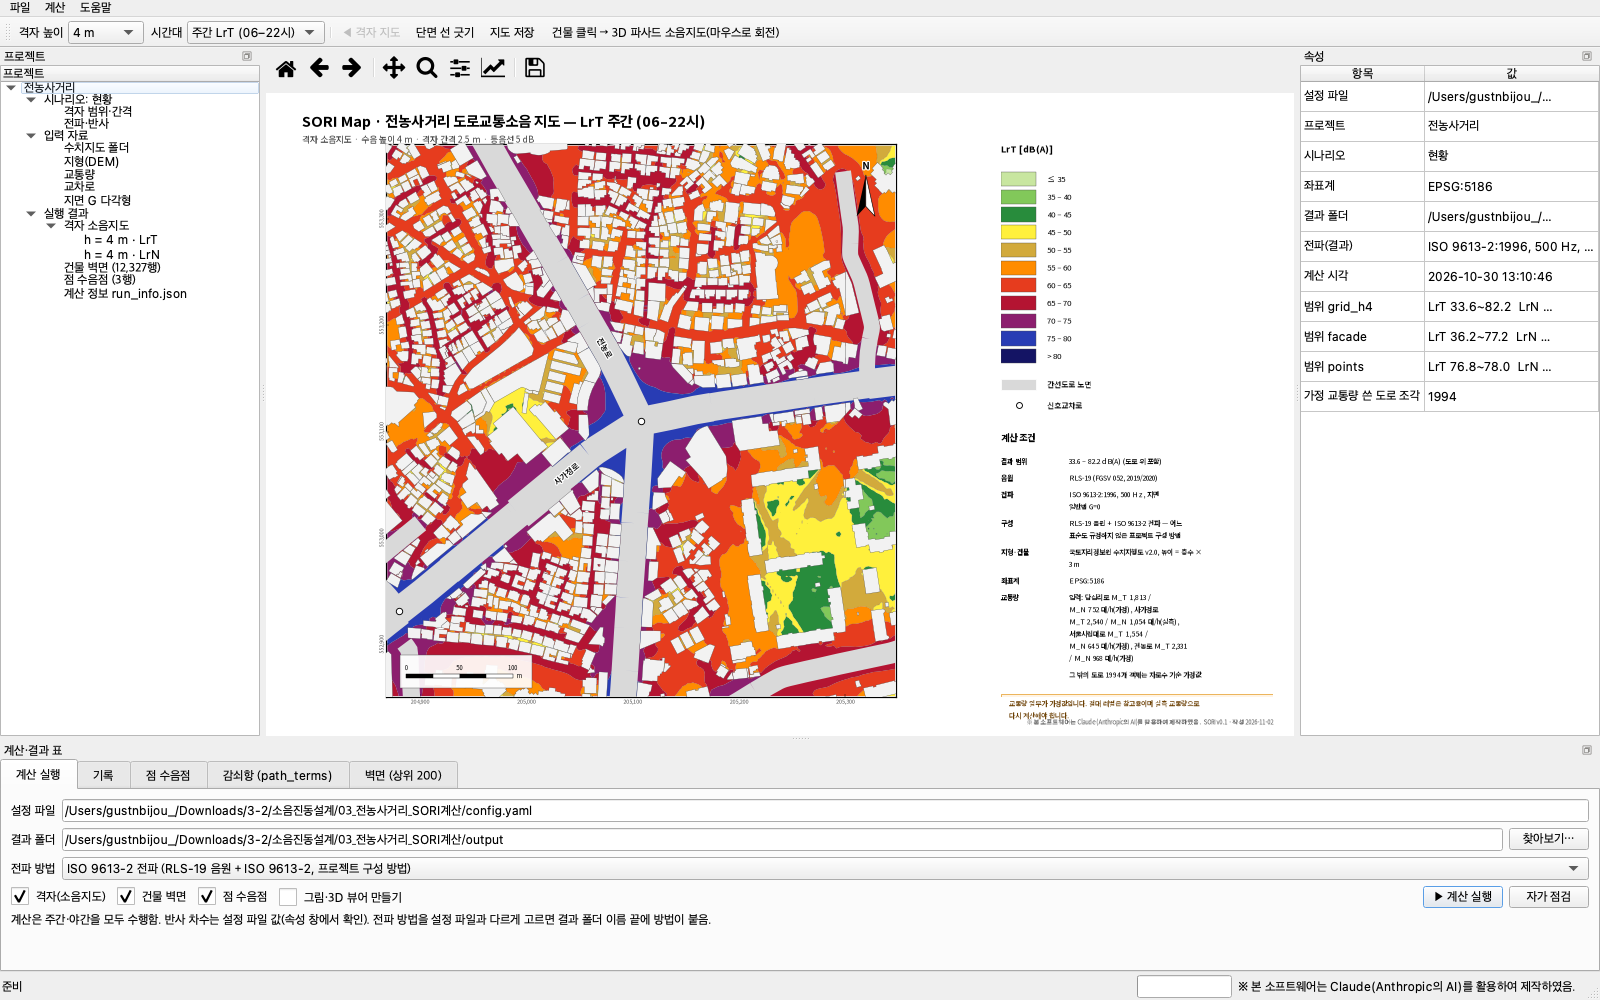
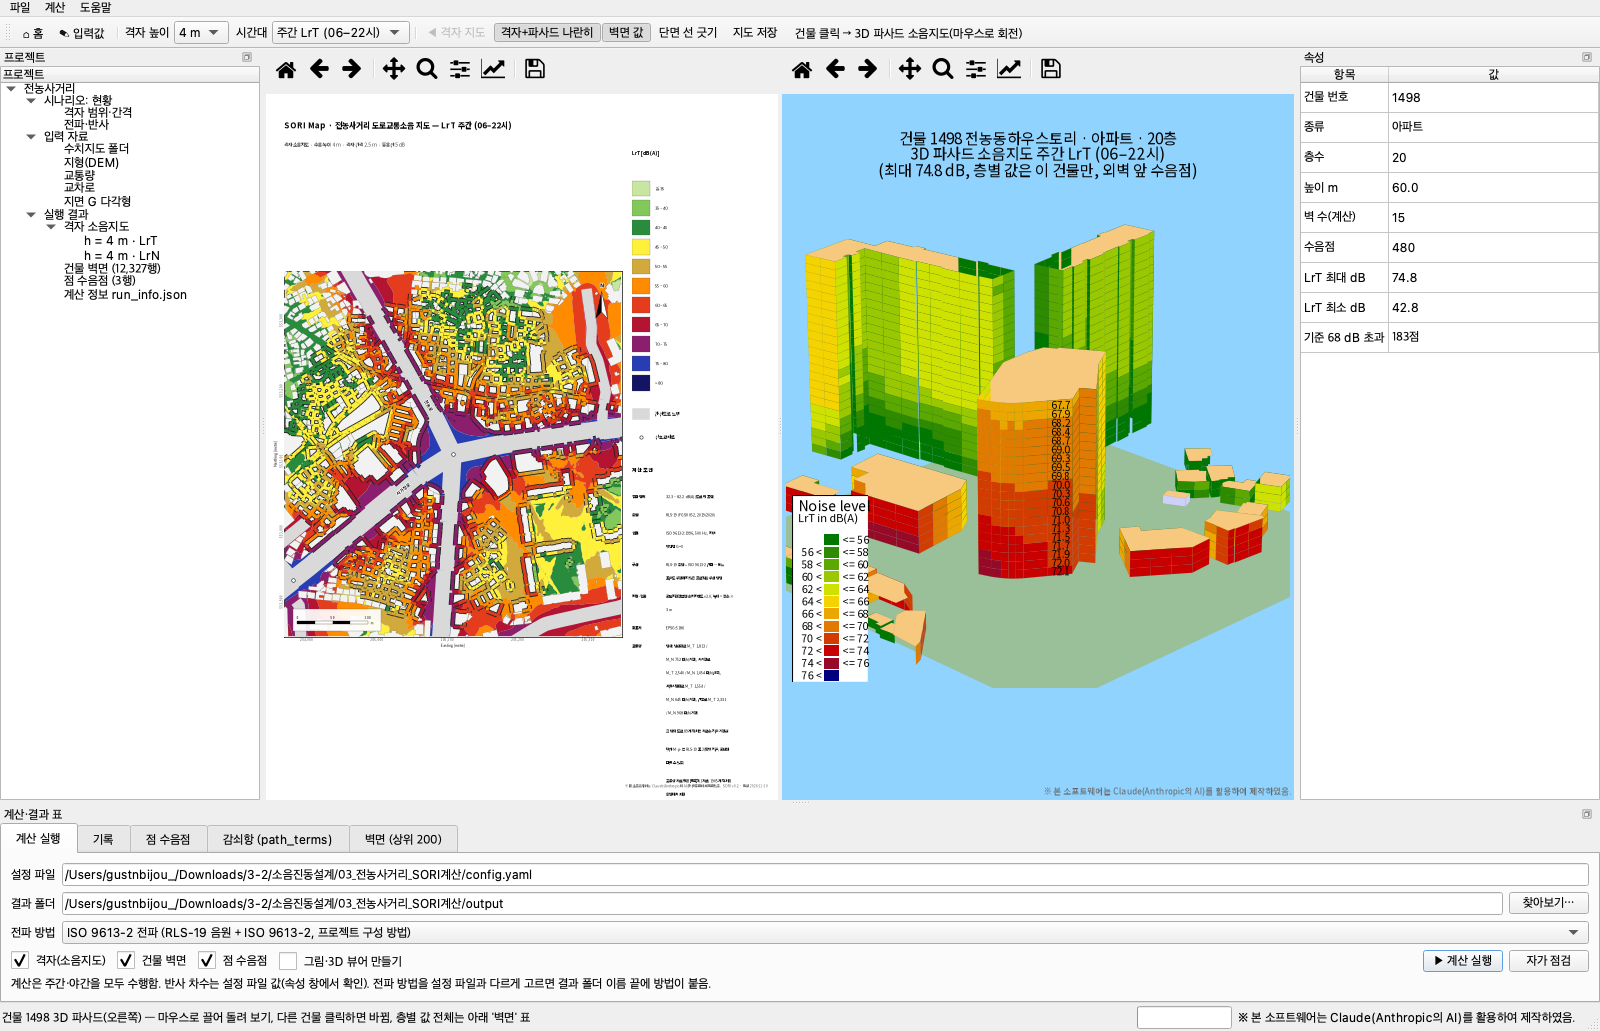
판 v0.2: 버전 올림, 매뉴얼 판을 프로그램 판과 자동 연동, 두 매뉴얼에 11-05~11-10 변경 반영
- sori.__version__ 0.1 → 0.2 (v0.1 이후 결과가 바뀌는 변경: 차도 면 flatten, 교통량 빈칸 표준표, 골목길 제외, RLS-90 추가)
- docs/manual/build.sh 가 __version__ 으로 version.tex(\soriversion) 생성, 두 매뉴얼 표지·머리글이 사용
- 시험 test_version_sync(판 일치·매크로 사용·docs/release/v<판>.md 존재), 변경 기록 docs/release/v0.2.md
- README 9절 판 번호 규칙(결과 바뀜·기능 추가 = 둘째 자리, 결과 불변 수정 = 셋째 자리)
- User's Manual: 홈·입력값 화면, RLS-90, 나란히 보기, 격자 위 벽면 값, 설정 표, 절대값 신뢰도 주의, 판 번호 장, 화면 그림 4장 v0.2 로
- Technical Manual: RLS-90 절, 차도 면 보정, 골목길 제외, v0.2 화면 구조, 시험 316 통과, SoundPLAN 비교 준비, 변경 이력·식 대응표
- 매뉴얼 개발노트 ⑬

diff --git a/tests/test_version_sync.py b/tests/test_version_sync.py
@@ -1,0 +1,29 @@
+# -*- coding: utf-8 -*-
+"""매뉴얼 판 번호 = 프로그램 판 번호(sori.__version__) 확인. docs/manual/build.sh 가 version.tex 를 다시 만들므로
+이 시험이 실패하면 build.sh 를 돌리고 version.tex 를 함께 커밋한다.
+※ Claude(Anthropic의 AI)를 활용하여 제작하였음."""
+import re
+from pathlib import Path
+
+import sori
+
+ROOT = Path(__file__).resolve().parents[1]
+MAN = ROOT / "docs" / "manual"
+
+
+def test_manual_version_matches_program():
+    m = re.search(r"\\def\\soriversion\{([^}]*)\}", (MAN / "version.tex").read_text(encoding="utf-8"))
+    assert m and m.group(1) == sori.__version__
+
+
+def test_manuals_use_version_macro():
+    """표지·머리글에 판 번호를 손으로 쓰지 않고 \\soriversion 을 씀"""
+    for name in ("SORI_User_Manual.tex", "SORI_Technical_Manual.tex"):
+        t = (MAN / name).read_text(encoding="utf-8")
+        assert "\\input{version}" in t
+        assert re.search(r"\\def\\docheader\{SORI v\\soriversion", t)
+        assert "{\\sffamily\\Huge\\bfseries\\color{navy} SORI v\\soriversion" in t
+
+
+def test_release_note_exists_for_version():
+    assert (ROOT / "docs" / "release" / f"v{sori.__version__}.md").exists()

diff --git a/docs/manual/version.tex b/docs/manual/version.tex
@@ -1,0 +1,2 @@
+%% 자동 생성(build.sh) — sori/__init__.py 의 __version__. 손으로 고치지 말 것
+\def\soriversion{0.2}

diff --git a/docs/매뉴얼_개발노트.md b/docs/매뉴얼_개발노트.md
@@ -1,4 +1,4 @@
-# 매뉴얼 개발노트 — SORI v0.1 User's Manual · Technical Manual
+# 매뉴얼 개발노트 — SORI User's Manual · Technical Manual (판 = 프로그램 판, 현재 v0.2)
 
 > ※ 본 문서는 Claude(Anthropic의 AI)를 활용하여 작성하였음.
 
@@ -15,8 +15,9 @@
 | Technical Manual | 정식본 v0.1 작성(2026-11-02) = `docs/manual/SORI_Technical_Manual.tex`(커밋 `e31dd81`), PDF 14쪽 → `06_개발기록/Technical manual/`. 초안 `TECHNICAL_NOTES.md` 는 그대로 둠 |
 | SORI 앱 개발노트 | 작성(2026-11-02) = `docs/manual/SORI_앱개발노트.tex`(커밋 `06f96e9`), PDF 9쪽 → `06_개발기록/개발노트/` |
 | 상용SW 서류 대응표 | 작성(2026-11-04) = `docs/상용SW_서류_대응표.md`. AEDT·SoundPLAN 서류 체계와 SORI 결과물 대응, 빈 곳(검증 보고서·제품 소개서) |
-| RLS-90 방법 | 초안에만 반영(2026-11-05) = `TECHNICAL_NOTES.md` 4d절, `README.md` 설정 표(`propagation_method: rls90`, `reflection.D_E`). 정식본 PDF 미반영 |
+| RLS-90 방법 | 초안(2026-11-05) = `TECHNICAL_NOTES.md` 4d절, `README.md` 설정 표. 정식본 반영(2026-11-10, v0.2) = Technical 5.6절·식 대응표, User's 적용 기준·전파 방법·설정 표 |
 | 교통량 빈칸 표준값 | 반영(2026-11-06) = 초안(`README.md` 4.1절 ※, `TECHNICAL_NOTES.md` 5a-15)·정식본(User's 교통량 표·※, Technical 표 2 항목·가정·대응표). RLS-19 표 2 / RLS-90 표 3, 독일 기준·국내 차이 명시 |
+| 판 번호 연동 | 2026-11-10: 프로그램 v0.2 로 올리고 매뉴얼 판을 `sori/__init__.py` 의 `__version__` 에서 자동으로(`build.sh` → `version.tex` → `\soriversion`). 시험 `tests/test_version_sync.py`. 정식본 v0.2 PDF = User's 20쪽, Technical 18쪽 → `06_개발기록/` |
 | 정식본 형식 | LaTeX(xelatex) → PDF, 기존 개발노트(10.26)와 같은 양식(`docs/manual/preamble.tex`). 원본은 저장소(`docs/manual/`), PDF 는 저장소에 넣지 않고 06_개발기록에 복사(사용자 결정 2026-11-02). 빌드 `sh docs/manual/build.sh` |
 
 ---
@@ -235,3 +236,13 @@
 - **결정**: 골목길 정의를 "차로수 < `main_min_lanes`(수치지도 1차로)"로 적고, 교통량을 넣은 골목길은 계산한다는 예외와 도로선은 교차로 판정·차도 면 보정에 남는다는 점을 함께 적음. 고시의 대상 도로 범위와의 관계는 근거 미확인으로 표시.
 - **남은 일**: 재계산 결과(측정점·지도 변화)를 Technical Manual 변경 이력에 넣을지 결정.
 
+### 2026-11-10 ⑬ 정식본 v0.2 — 판 번호 연동, 11-05~11-10 변경 반영
+
+- **목적**: 사용자 지시 "두 매뉴얼이 현재 SORI 에 맞는지 확인, SORI 는 업데이트 때마다 버전을 새로 하는지 — 매뉴얼도 같은 버전으로". 확인 결과 프로그램은 v0.1 태그(11-04) 이후 결과가 바뀌는 변경(차도 면 flatten, 교통량 빈칸 표준표, 골목길 제외)과 RLS-90 추가가 있었는데 `__version__` 은 0.1 그대로였고, 정식본은 RLS-90·차도 면·홈/입력값 화면·나란히 보기·벽면 값·SoundPLAN 도구가 빠져 있었음(표지 기준 커밋 2376a59, 화면 그림 11-02).
+- **수행**:
+  - 판 번호: `sori/__init__.py` `__version__ = "0.2"`. `docs/manual/build.sh` 가 `__version__` 을 읽어 `version.tex`(`\soriversion`)를 만들고 두 정식본 표지·머리글·본문이 그 값을 씀. `tests/test_version_sync.py`(판 일치, 표지·머리글 매크로 사용, `docs/release/v<판>.md` 존재). `docs/release/v0.2.md`(변경 기록, 태그 전), README 9절(판 번호 규칙·표).
+  - User's Manual: 적용 기준(RLS-90), 사용상 주의(차도 면 보정 한계, **절대값 신뢰도** — 현장 측정보다 5.6~8.5 dB 높음), 받는 파일(배포 파일은 v0.1 이라는 안내), 3장 화면 구성(홈 화면 그림·작업 단추 표, 작업 화면 그림 교체, 도구 줄·Cmd/Ctrl+S), 4.2절 입력값 설정(설정값·교통량·차로 수, 그림 새로), 전파 방법 RLS-90, 격자 위 벽면 값 띠, 3D 파사드 나란히 보기, 설정 표(`road_surface`·`minor_roads`·`D_E`), 11장 판 번호와 변경 이력, 명령어 요약(SoundPLAN 도구). 절 번호 직접 표기 3곳을 `\ref` 로.
+  - Technical Manual: 참조 표준·모듈 표(RLS-90), 계산 흐름(flatten·골목길·RLS-90), 앱 층(v0.2 화면 구조, `facade_segments`), 3장 차도 면 지형, 4.3 골목길 제외, 5.6절 RLS-90(구현 표·규정 밖 설정), 9.1 pytest(316 통과·1 xfail, 파일별 개수 갱신·새 시험 5개), 9.6 SoundPLAN 비교 준비, 미해결 검증(현장 측정 차이), 가정·한계(flatten·RLS-90 근사), 변경 이력(판 번호 규칙, 11-05~11-10 행, v0.1/v0.2 구분), 식 대응표(RLS-90·flatten).
+  - 화면 그림: `figures/gui_home.png`·`gui_input.png`(새), `gui_grid.png`·`gui_facade3d.png`(v0.2 화면, 전농사거리 기본 계산 `output` = flatten·골목길 제외로 11-08 재계산한 결과, 건물 1498) — 화면 없이(offscreen) 1600×1000 으로 그림. `gui_section.png` 는 11-02 그대로(단면 기능 불변).
+- **결정**: 판 번호 규칙 = 같은 설정으로 결과가 바뀌는 변경·기능 추가는 둘째 자리, 결과 불변 수정은 셋째 자리. 매뉴얼 판은 프로그램 판과 항상 같게(따로 매기지 않음). 매뉴얼 글꼴에 ⌂·✎ 글리프가 없어 단추 이름은 글자로만 적음.
+- **남은 일**: v0.2 태그·앱 빌드·Release 초안(사용자 결정), SoundPLAN 결과를 받으면 Technical 9.6절에 숫자 비교 결과, 단면 그림을 v0.2 화면으로 바꿀지.

diff --git a/README.md b/README.md
@@ -1,6 +1,6 @@
 # SORI — RLS-19 + ISO 9613-2 도로교통소음 3D 소음지도(SORI Map)
 
-**SORI** (Simulation of Outdoor Road-noise Impact) v0.1 — 도로교통소음 예측 소프트웨어. 소음지도 기능·결과물은 **SORI Map** 이라 부른다. Python 패키지·명령은 `sori` (`python -m sori …`).
+**SORI** (Simulation of Outdoor Road-noise Impact) v0.2 — 도로교통소음 예측 소프트웨어(판 번호 규칙·변경은 9절). 소음지도 기능·결과물은 **SORI Map** 이라 부른다. Python 패키지·명령은 `sori` (`python -m sori …`).
 
 > ※ 본 소프트웨어와 문서는 Claude(Anthropic의 AI)를 활용하여 제작하였음. 계산 결과의 검토·검증 책임은 사용자에게 있음.
 
@@ -204,10 +204,21 @@ python -m sori all -c config.yaml                            # 모델 구축 →
 
 ## 8. 검증
 ```bash
-python -m pytest -q tests        # 230개 시험(RLS-19 공식 시험과제 TEST-20 포함, 1개는 Krad 미지원 xfail): 원문 식 재계산, 해석해(직선 음원), 차폐·1·2차 반사 수계산 비교(ISO·RLS-19 전파), 입력·음원 배치 회귀시험, 기준 사례·좌표 변환
+python -m pytest -q tests        # 317개 시험(2026-11-10 v0.2: 316 통과, RLS-19 공식 시험과제 TEST-20 포함, 1개는 Krad 미지원 xfail): 원문 식 재계산, 해석해(직선 음원), 차폐·1·2차 반사 수계산 비교(ISO·RLS-19 전파), 입력·음원 배치 회귀시험, 기준 사례·좌표 변환
 ```
 기본값에서 결과가 바뀌지 않았는지는 `python tools/check_baseline.py`(전농사거리 기준선 `baseline/` 과 SHA-256 비교, 약 1분)로 확인합니다.
 `tests/test_reference.py` 는 저장소에 들어 있는 기준 사례(가상 교차로, `tests/reference/synthetic/`)를 계산해 기준값과 허용 오차(기본 0.01 dB, 프로젝트 임의 설정, `--sori-tol` 로 변경)로 비교하고, `tests/test_crs.py` 는 좌표 변환(EPSG) 결과를 확인합니다. 기준값을 만든 커밋·환경은 `tests/reference/synthetic/expected/meta.json`, 다시 만들기·결과 폴더 비교는 `python tools/reference.py make|compare`.
 
 그 밖의 도구: `tools/make_review_lists.py`(지도 확인 목록 → `docs/review/`), `tools/diagnostics.py`(구간 분할·횡단경사 진단 재현). 교통량 비교 시나리오는 `scenarios/`.
 자세한 내용은 `TECHNICAL_NOTES.md`, 작업 경과와 남은 일은 `docs/작업기록_2026-10-15_17.md`.
+
+## 9. 판 번호(버전)
+
+- 판은 `sori/__init__.py` 의 `__version__` 하나로 정한다. 앱 제목·SORI 정보·결과 `run_info.json` 의 `software`·보고서 지도 아래 글이 이 값을 쓰고, User's·Technical Manual 표지·머리글은 `docs/manual/build.sh` 가 만드는 `docs/manual/version.tex`(`\soriversion`)로 같은 값을 쓴다. 어긋나면 `tests/test_version_sync.py` 가 실패한다(→ `sh docs/manual/build.sh` 후 `version.tex` 커밋).
+- **둘째 자리**(0.1 → 0.2): 같은 설정으로 계산 결과가 바뀌는 변경(식·기본값), 계산 방법이나 화면 기능 추가. **셋째 자리**(0.2 → 0.2.1): 결과가 바뀌지 않는 오류 수정·문서·화면 다듬기.
+- 판을 올릴 때: `__version__` → `docs/release/v<판>.md` → 두 매뉴얼의 판별 변경 표 → `sh docs/manual/build.sh` → 배포는 `v<판>` 태그.
+
+| 판 | 날짜 | 요약 |
+|---|---|---|
+| v0.1 | 2026-11-04 | 첫 배포(태그 `v0.1`, 공개 안 함) — `docs/release/v0.1.md` |
+| v0.2 | 2026-11-10 | RLS-90 추가, 차도 면 보정 기본 flatten, 교통량 빈칸 독일 기준표, 골목길 제외 기본(**결과 바뀜**), 홈·입력값 화면, 나란히 보기, 격자 위 벽면 값 — `docs/release/v0.2.md`. 태그 전 |

diff --git a/docs/release/v0.2.md b/docs/release/v0.2.md
@@ -1,0 +1,41 @@
+# SORI v0.2 — 도로교통소음 예측·소음지도
+
+작성: 서울시립대학교 환경공학부 전현수(2022890065)
+
+> ※ 본 소프트웨어와 문서는 Claude(Anthropic의 AI)를 활용하여 제작하였음. 계산 결과의 검토·검증 책임은 사용자에게 있음.
+
+v0.1(2026-11-04) 이후 **계산 결과가 바뀌는 기본값 변경**과 계산 방법 추가가 있어 판을 올렸다(2026-11-10). v0.1 로 계산한 결과와 v0.2 결과는 같은 설정으로도 다를 수 있다. 결과 폴더의 `run_info.json` 의 `software` 로 어느 판인지 확인한다.
+
+※ 이 문서는 판 번호 v0.2 의 변경 기록이다. 태그(`v0.2`)·배포 파일(Release 초안)은 아직 만들지 않았다.
+
+## 계산 결과가 바뀌는 변경
+
+| 날짜 | 내용 | 설정 · 이전 동작 |
+|---|---|---|
+| 11-05 | RLS-90(1990) 계산 방법 추가 — 음원·전파 모두 RLS-90 (SoundPLAN RLS-90 비교용) | `propagation_method: rls90`, `reflection.D_E` |
+| 11-06 | 차도 면 지형 보정 기본값: 차도 안 지형을 도로중심선 종단 고도로 평탄화 | `model.road_surface: flatten`(기본) / 이전 `dtm` |
+| 11-06 | 교통량 빈칸(M·p)을 계산 방법별 독일 기준표로: RLS-19 표 2 / RLS-90 표 3. 표로 채운 항목은 `traffic_used.csv` 의 `std_filled`·`traffic_std` | 국내 교통 특성과 다를 수 있음 |
+| 11-08 | 교통량 자료 없는 골목길(수치지도 1차로)을 음원에서 제외 | `model.minor_roads: exclude`(기본) / 이전 `include` |
+
+## 앱 화면
+
+- 홈 화면(프로젝트 열기·최근 프로젝트·작업 선택), 입력값 설정 화면(설정값·교통량 표·차로 수 탭) — 11-05
+- 격자 소음지도와 3D 파사드 나란히 보기(기본 켬) — 11-05, 홈 화면 작업이 이 선택을 끄지 않게 — 11-10
+- 격자 지도 위 벽면 값 띠(층별 최댓값, 격자와 같은 색 등급) — 11-10
+- Cmd/Ctrl+S 를 화면별 저장으로(입력값 화면 = 설정 파일, 지도 화면 = 지도 그림) — 11-05
+
+## 도구
+
+- SoundPLAN 9.1 비교: 입력 내보내기 `tools/export_soundplan.py`, 결과 비교 `tools/compare_soundplan.py`(`validation/soundplan/README.md`) — 11-06
+
+## 확인한 것과 확인하지 않은 것
+
+| 항목 | 상태 |
+|---|---|
+| 자동 시험 | `pytest tests` 316 통과, 1 xfail(Krad 차량군 미지원) — 2026-11-10, macOS |
+| 앱 빌드 | v0.2 앱은 아직 빌드하지 않음(`dist/SORI.app` 은 11-06 빌드) |
+| Windows 화면 | 미확인(v0.1 과 같음) |
+| 상용 프로그램 비교 | SoundPLAN 9.1 RLS-90 같은 입력 비교 준비만 됨(결과 미수령) |
+| 현장 측정 비교 | 사가정로 2지점(2026-10-22): 모델이 측정보다 약 5.6 dB(30 km/h) ~ 8.5 dB(50 km/h) 높음, 원인 분석 중 |
+
+자세한 사용법: User's Manual·Technical Manual(`docs/manual/`, 판 v0.2).
